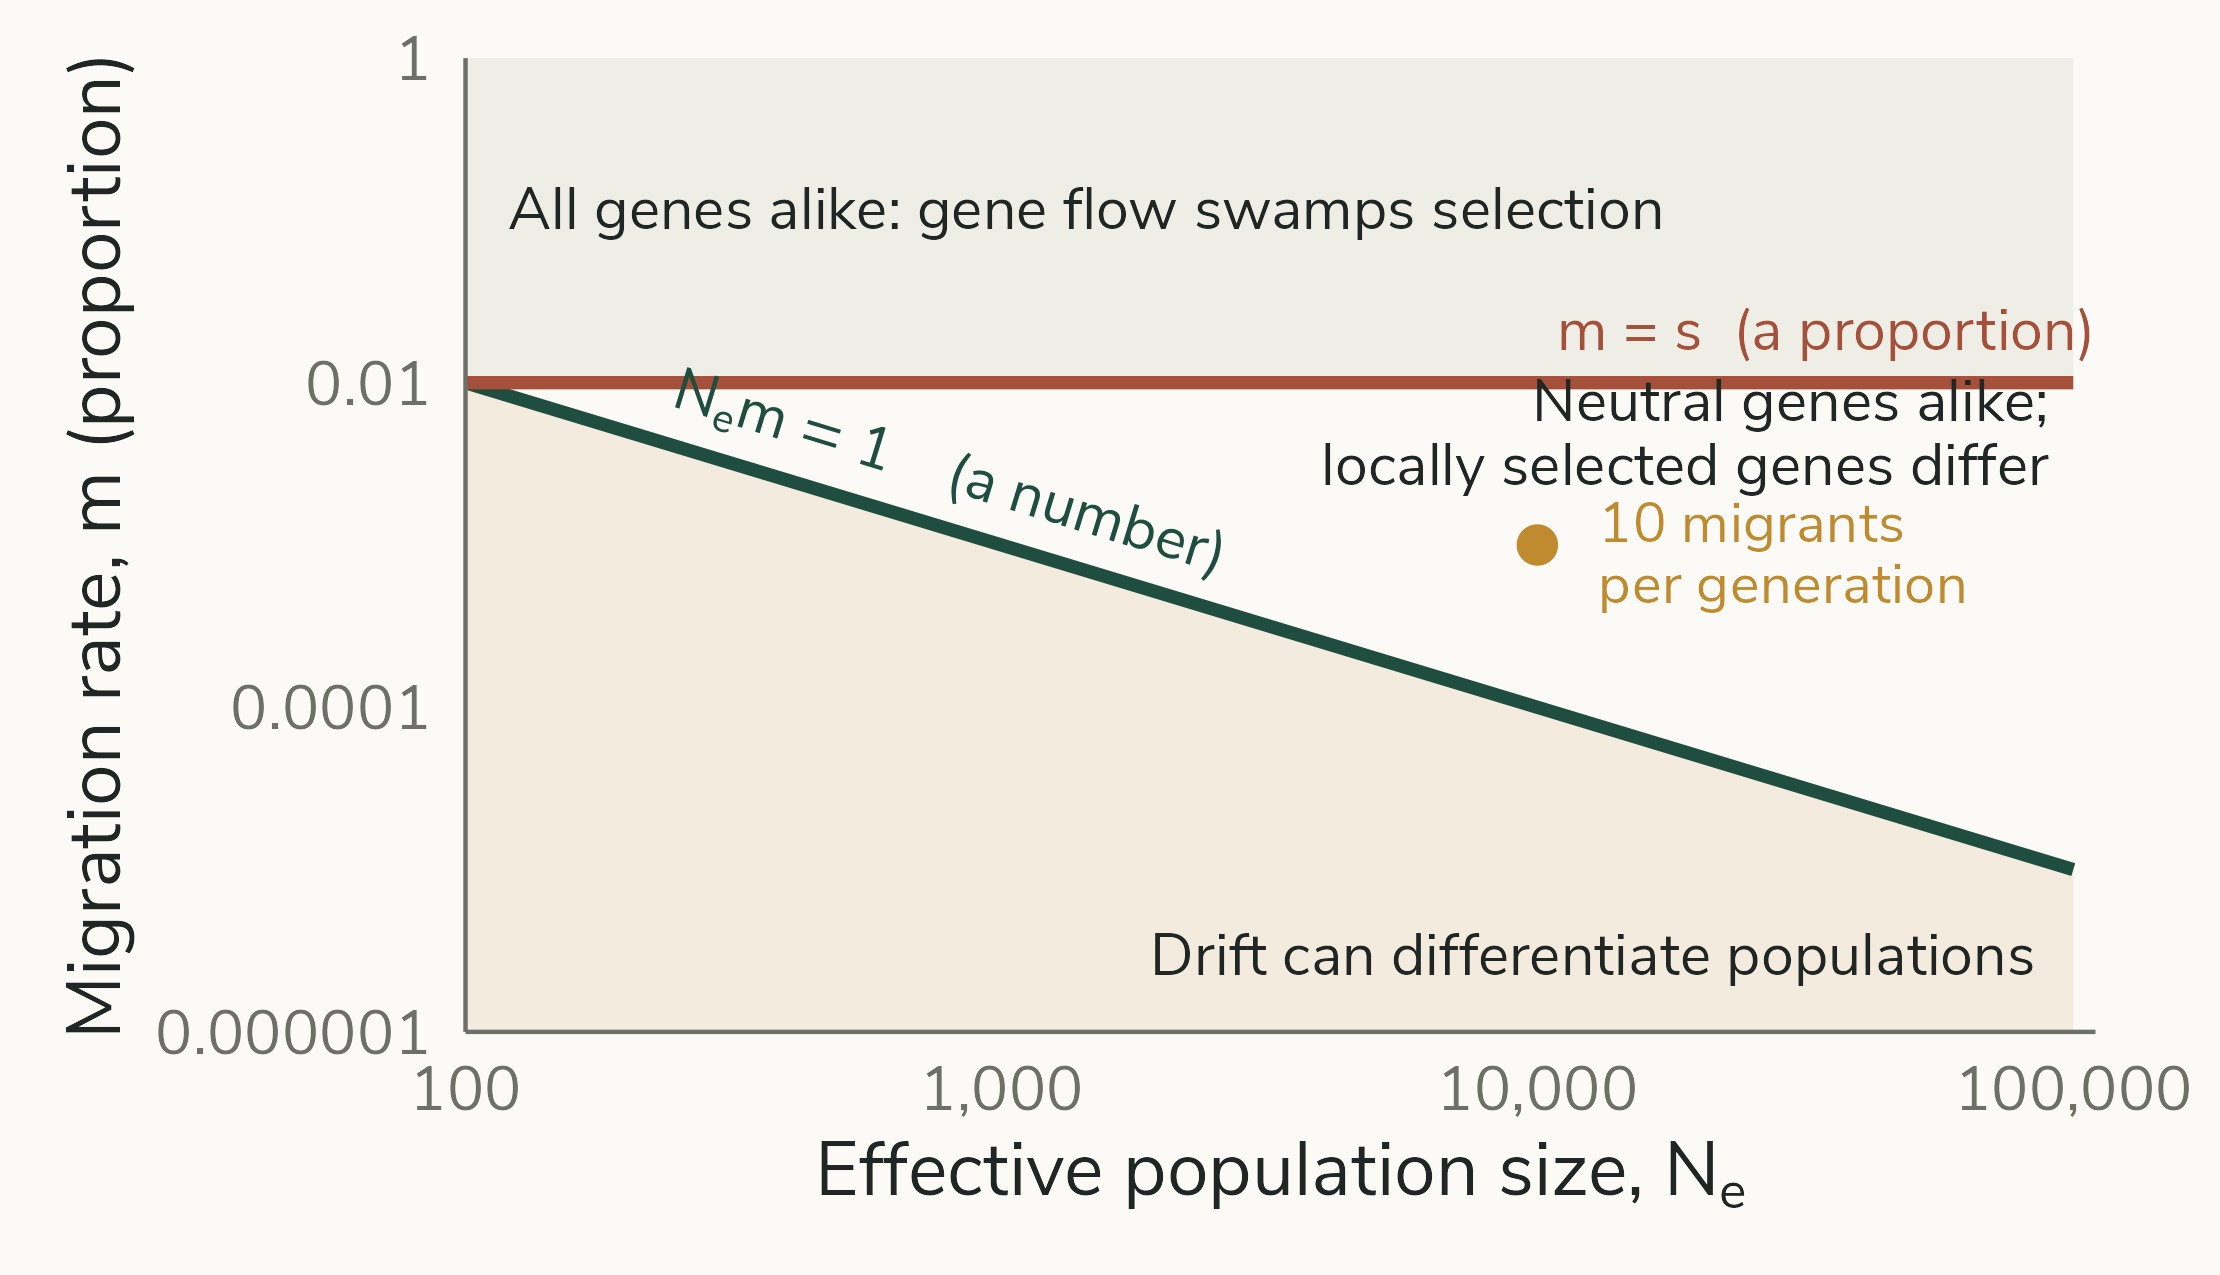
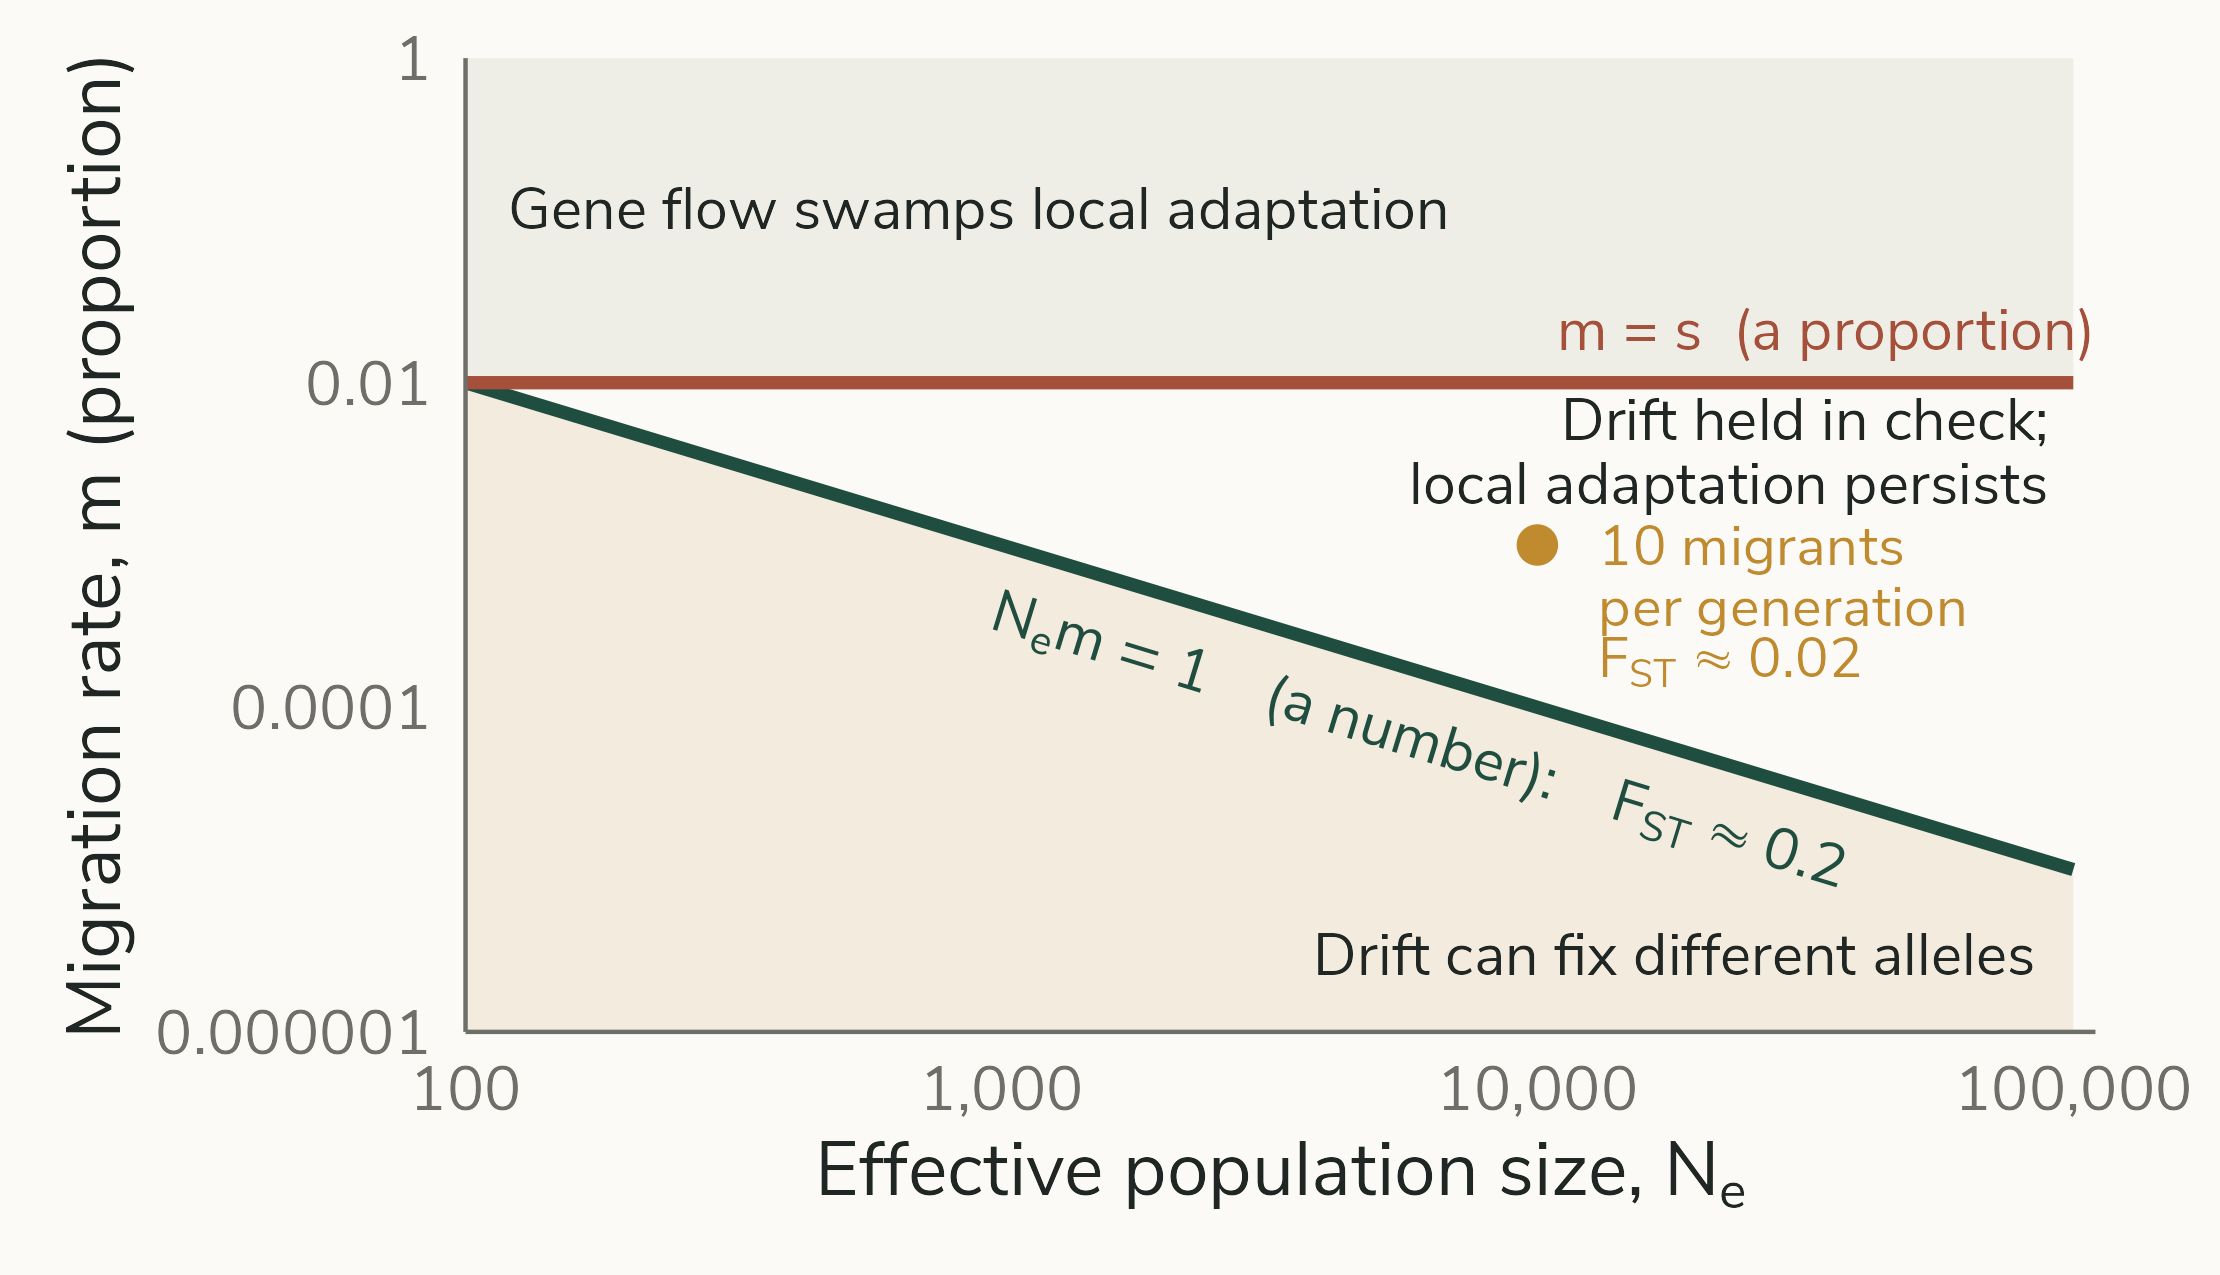
Lecture 12: fix drift-versus-selection figure labels (no sharp 'alike' threshold)
N_e m = 1 is where drift stops fixing different alleles (F_ST ~ 0.2), not
where populations become alike; label regions accordingly and show F_ST at
the line and at the example point.

Claude-Session: https://claude.ai/code/session_01VCei2kxsiPRLUTCQGBi3dy

diff --git a/lecture_figures/migration_gene_flow/build_deck.py b/lecture_figures/migration_gene_flow/build_deck.py
@@ -578,12 +578,12 @@ fill(ph(s, 103), "TAKEAWAY")
 fill(ph(s, 105), [
     "Drift: N_{e}*m* ≈ 1, a number, whatever the size",
     "Selection: *m* ≈ *s*, a proportion",
-    "Gold point: 10 migrants stop drift, but *m* < *s*, so local adaptation persists",
+    "Gold point: 10 migrants hold drift in check (F_{ST} ≈ 0.02), but *m* < *s*, so local adaptation persists",
 ])
 notes(s, """~2 min. The idea that ties the lecture together.
 Drift versus gene flow (Neal 8.4, Eqn 8.4): drift dominates only if N_e m is much less than 1. The boundary N_e m = 1 is a NUMBER of migrants, so in a large population a tiny proportion is enough (the green line falls as N_e rises).
 Selection versus gene flow: a locally favoured allele is swamped once m is of the order of s, a PROPORTION, whatever the population size (the red line is flat). In Neal's recessive wing example q-hat = sqrt(m/s) reaches 1 at m = s; for an additive allele in the continent-island model the local allele is lost once m reaches s.
-So between the lines, neutral genes are homogenised but locally selected genes can stay different. Example (gold point): N_e = 10,000 and m = 0.001 gives 10 migrants per generation, plenty to stop drift, but m = 0.001 is well below s = 0.01, so local adaptation persists.
+So between the lines, drift is held in check (populations are not fixed for different alleles, and neutral differences shrink as N_e m rises) but locally selected genes can stay different. Both lines are rules of thumb, not on/off switches: differentiation falls steadily with N_e m (F_ST about 0.2 at N_e m = 1, 0.02 at 10, 0.002 at 100), and a locally favoured allele declines steadily as m approaches s. Example (gold point): N_e = 10,000 and m = 0.001 gives 10 migrants per generation, plenty to stop drift, but m = 0.001 is well below s = 0.01, so local adaptation persists.
 Link back: the wing example (m = 0.01 kept the allele at only 20%) and the 'about 1 migrant' slide. This also answers the guiding question on the title slide.
 Caveats: these are rules of thumb, not sharp thresholds. The figure assumes s = 0.01 and starts at N_e = 100, because below N_e = 1/s drift also overrides selection (Neal 8.4: N_e s much less than 1).
 Figure: analytical rules of thumb, not a simulation; scripts/27b_number_vs_proportion.R.""")
